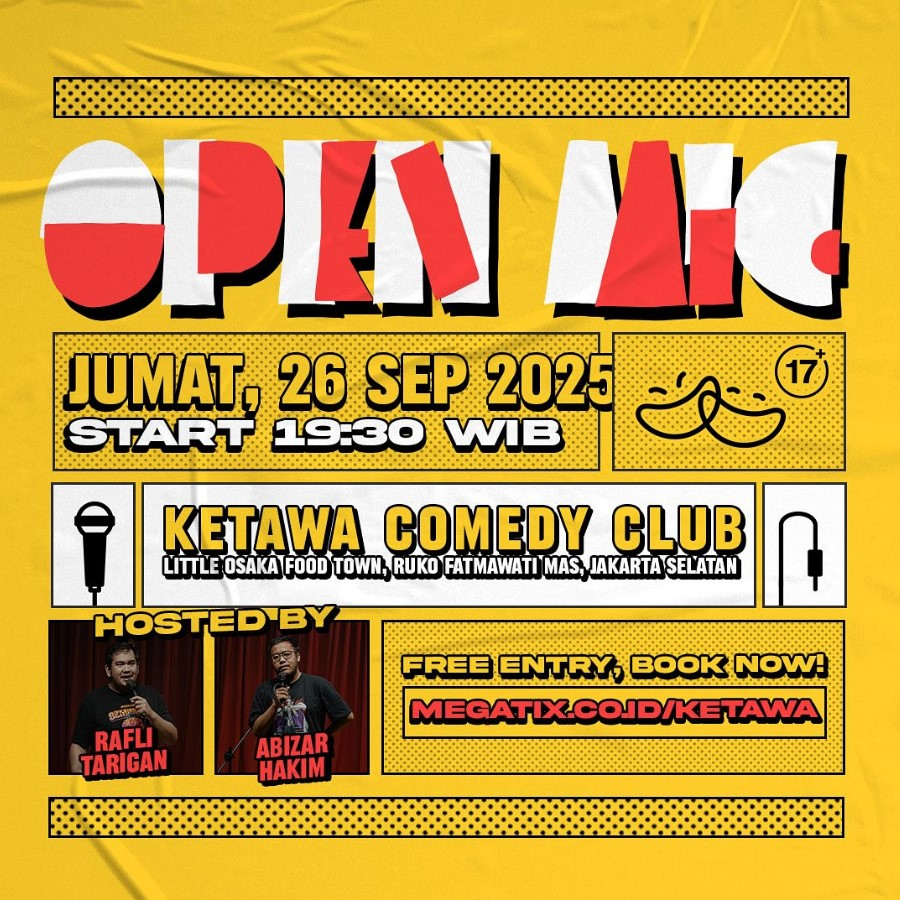
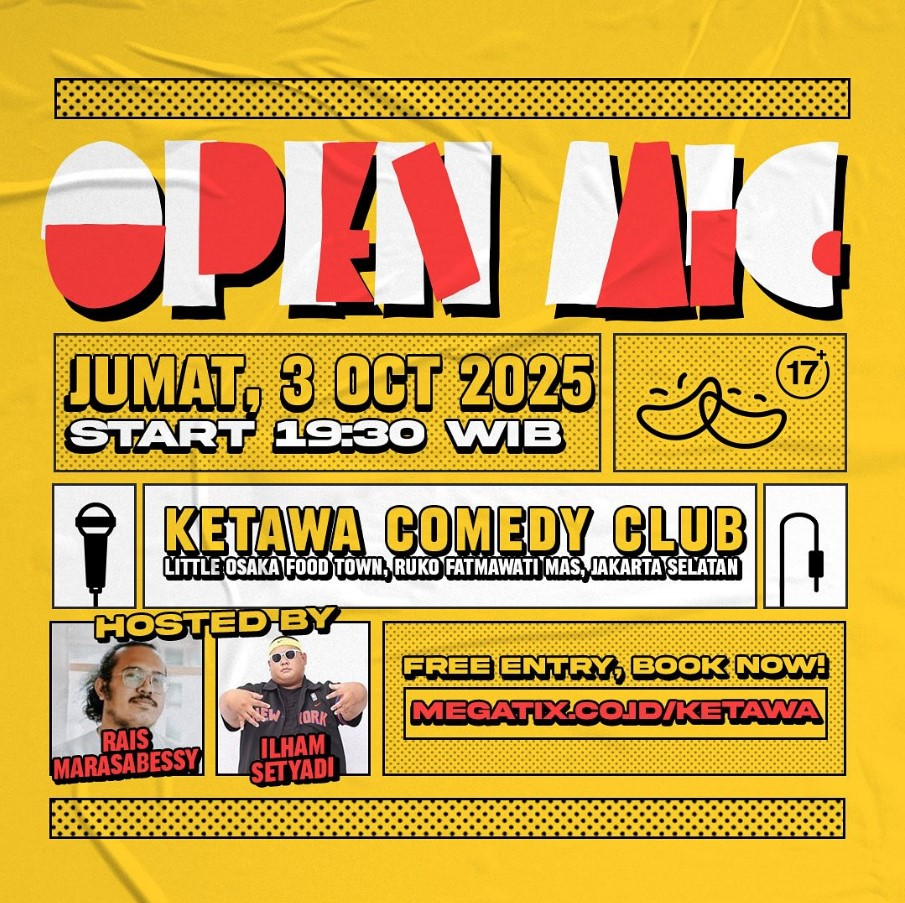
EDIT EVENT

Changed region(s): [[0.0311, 0.0622, 0.9644, 0.9333], [0.0311, 0.2489, 0.0622, 0.28]]

diff --git a/src/utils/data/kalender.js b/src/utils/data/kalender.js
@@ -59,7 +59,7 @@ export const kalender2025 = {
     { id: 1, tanggal: 27, hari: "Sabtu", kategori: "Theater", waktu: "13:00", nama: "Set Design Masterclass" }
   ],
   Oktober: [
-    { id: 4, tanggal: 4, hari: "Sabtu", kategori: "Comedy", waktu: "19:00", nama: "October Arts Festival" },
+    { id: 4, tanggal: 3, hari: "Jumat", kategori: "Comedy", waktu: "19:30", nama: "OPEN MIC COBA KETAWA 03 OCT 2025" },
     { id: 3, tanggal: 11, hari: "Sabtu", kategori: "Concert", waktu: "21:00", nama: "Halloween Special: Dark Symphonies" },
     { id: 2, tanggal: 18, hari: "Sabtu", kategori: "Theater", waktu: "16:00", nama: "Dracula" },
     { id: 1, tanggal: 25, hari: "Sabtu", kategori: "Theater", waktu: "10:00", nama: "Makeup for Stage" }

diff --git a/src/utils/data/news.js b/src/utils/data/news.js
@@ -29,8 +29,8 @@ export const news = [
     id: 4,
     category: "Comedy",
     title: "Ketawa Comedy Club",
-    date: "3 Januari 2025",
-    konten: "Open mic ketawa comedy club balik lagi jumat 3 Januari 2025.",
+    date: "3 Oktober 2025",
+    konten: "Open mic ketawa comedy club balik lagi jumat ini bareng duo mc kondang kita @raissmarssy dan @ilhamsetyadiii. Bagi yang ingin menonton atau mencoba tampil silahkan sikat tiketnya di megatix https://megatix.co.id/events/open-mic-coba-ketawa-03-oct-2025?source=presenter",
     gambar: assets.berita4
   },
   {
